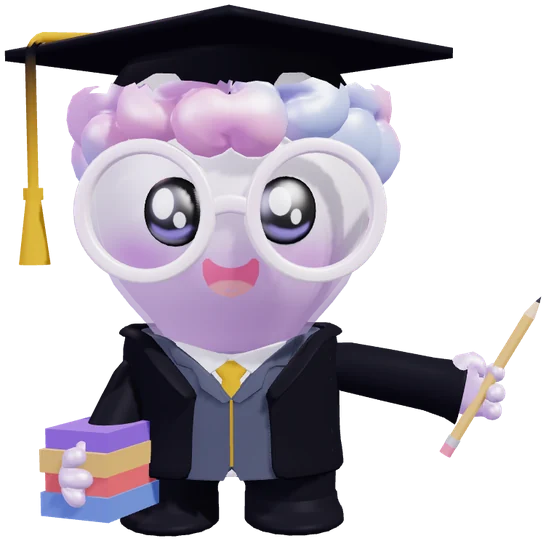
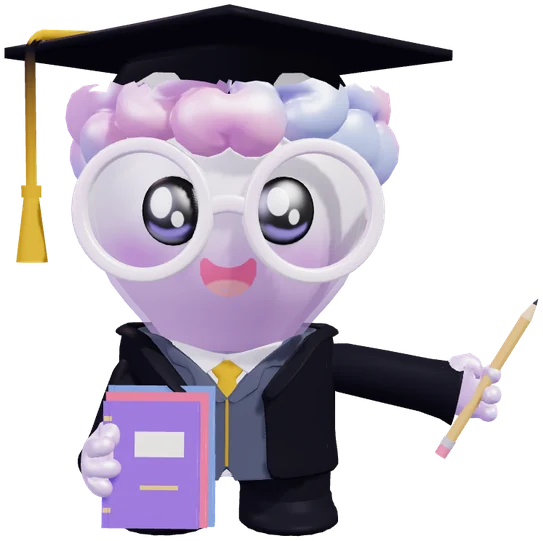
Scholar hugs an upright stack of books against the tummy

diff --git a/frontend/src/components/mascot/mascotCatalog.js b/frontend/src/components/mascot/mascotCatalog.js
@@ -444,7 +444,7 @@ export const PROP_SETS = {
     url: '/mascot/props/graduation.glb',
     label: 'Pencil & books',
     holdArms: ['right', 'left'],
-    holdPose: { right: { down: 12, forward: 8 }, left: { down: 44, forward: 64 } },
+    holdPose: { right: { down: 12, forward: 8 }, left: { down: 38, forward: 80 } },
   },
 };
 
